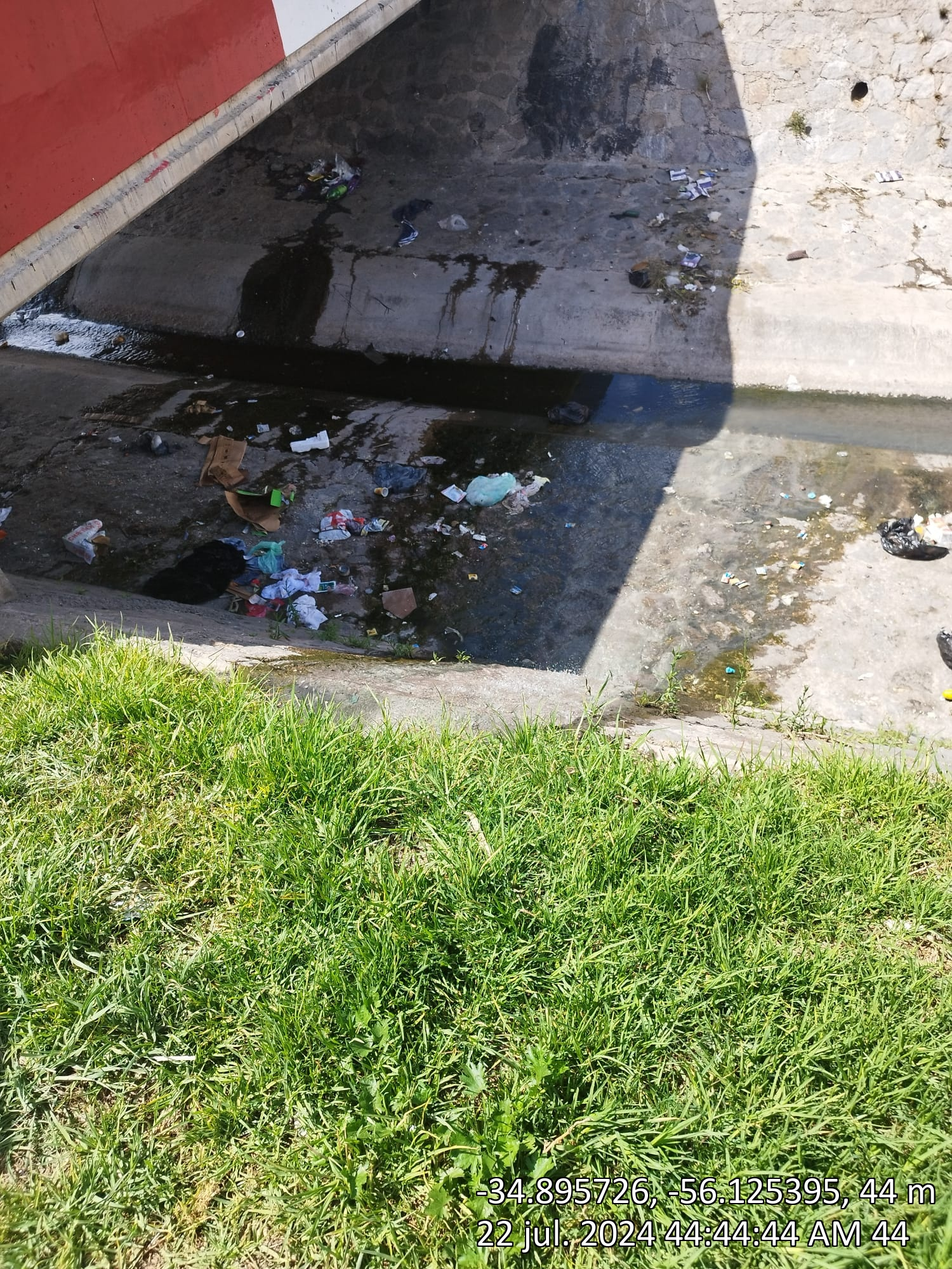
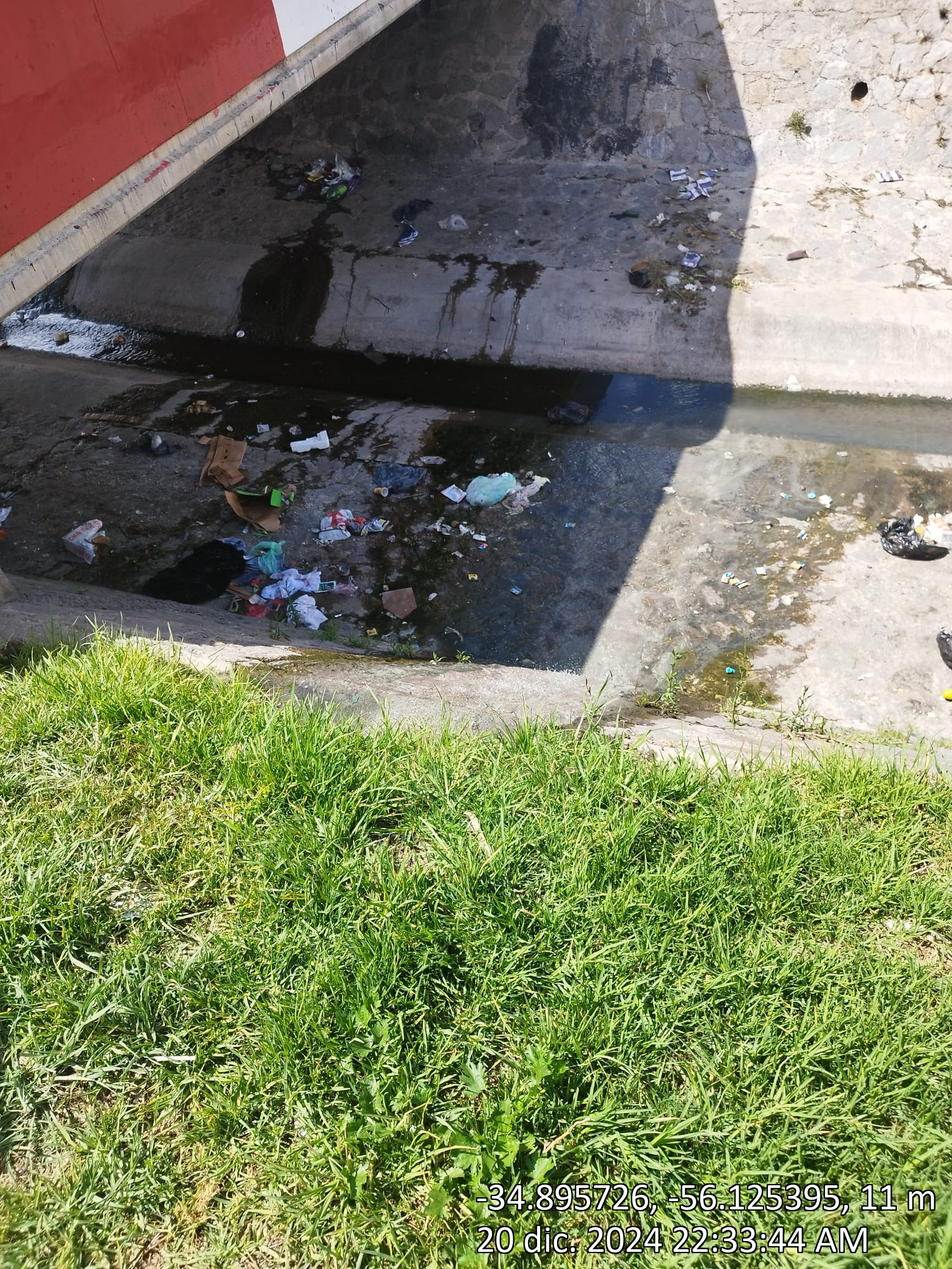
Arregle el tema de la hora y fecha

Changed region(s): [[0.4907, 0.93, 0.9813, 0.992]]

diff --git a/main.py b/main.py
@@ -137,8 +137,7 @@ def interfaz_principal():
         lat = entry_latitud.get()
         lon = entry_longitud.get()
         metros = entry_metros.get()
-        fecha = "2024-07-22"
-        cal.get_date()
+        fecha = cal.get_date()
         hora = entry_hora.get()
         minutos = entry_minutos.get()
         segundos = entry_segundos.get()
@@ -151,9 +150,9 @@ def interfaz_principal():
 
             # Construir la cadena de hora con AM/PM
             hora_completa = f"{hora}:{minutos}:{segundos} {am_pm.upper()}"
-            fecha_hora = f"{fecha_formateada} {hora_completa}"
+            fecha = f"{fecha_formateada}"
 
-            procesar_imagenes(lat, lon, metros, fecha_hora, hora)
+            procesar_imagenes(lat, lon, metros, fecha, hora_completa)
             messagebox.showinfo("Éxito", "Las imágenes han sido procesadas correctamente.")
         else:
             print("Por favor completa todos los campos.")
